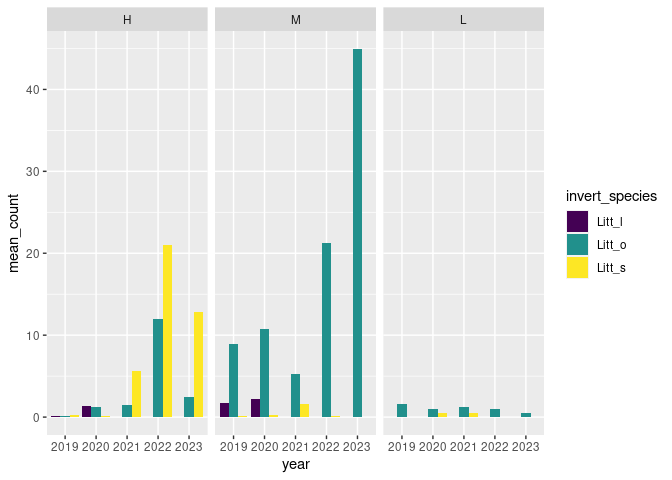
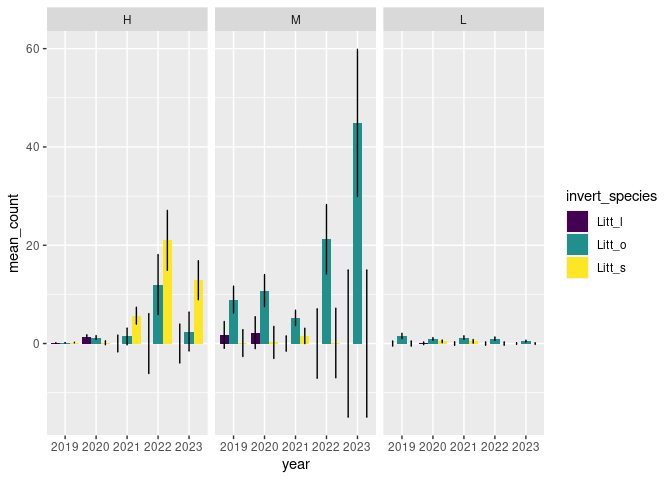
Dodge error bars

diff --git a/extra/tidymdrdata.md b/extra/tidymdrdata.md
@@ -858,8 +858,6 @@ all_inverts_mdr %>%
 ![](tidymdrdata_files/figure-gfm/total-snails-per-quadrat-faceted-1.png)<!-- -->
 
 ``` r
-# error bars are NOT working (need to get them to line up with their bars)
-
 all_inverts_mdr %>%
   filter(invert_species %in% c("Litt_l",
                                "Litt_o",
@@ -874,7 +872,7 @@ all_inverts_mdr %>%
   ggplot(mapping = aes(year, mean_count, fill = invert_species)) +
     geom_col(position = "dodge") +
   geom_errorbar(aes(ymin = mean_count - se, ymax = mean_count + se),
-                width=.1, position = "dodge") +
+                width=.1, position = position_dodge(.9)) +
   scale_fill_viridis_d()
 ```
 
@@ -882,6 +880,14 @@ all_inverts_mdr %>%
     ## `.groups` argument.
 
 ![](tidymdrdata_files/figure-gfm/mean-snails-per-quadrat-unfaceted-1.png)<!-- -->
+
+``` r
+  # ylim(0, NA)
+
+# if I set the ylim to 0 the vertical parts of the error bars get confused
+
+# PROBLEM: may not have 0s for every quadrat for every year (there might just not be a line for that species if it wasn't there, which will mess up the mean and standard error calculations)
+```
 
 ``` r
 all_inverts_mdr %>%
@@ -894,8 +900,11 @@ all_inverts_mdr %>%
   mutate(count = replace_na(count, 0)) %>%
   group_by(year, tide_ht, invert_species) %>%
   summarise(mean_count = mean(count)) %>%
+  mutate(se = sd(mean_count, na.rm=TRUE)/sqrt(length(mean_count))) %>%
   ggplot(mapping = aes(year, mean_count, fill = invert_species)) +
     geom_col(position = "dodge") +
+  geom_errorbar(aes(ymin = mean_count - se, ymax = mean_count + se),
+                width=.1, position = position_dodge(.9)) +
   scale_fill_viridis_d() +
   facet_wrap("tide_ht", nrow = 1)
 ```
@@ -904,6 +913,10 @@ all_inverts_mdr %>%
     ## the `.groups` argument.
 
 ![](tidymdrdata_files/figure-gfm/mean-snails-per-quadrat-faceted-1.png)<!-- -->
+
+``` r
+# better to have all in same column or all in same row? if in same row, how to make them shorter?
+```
 
 ``` r
 # reorder this so colors of Littorina are the same and L. vincta is last (is there a way to do this without making it an ordered factor?)
